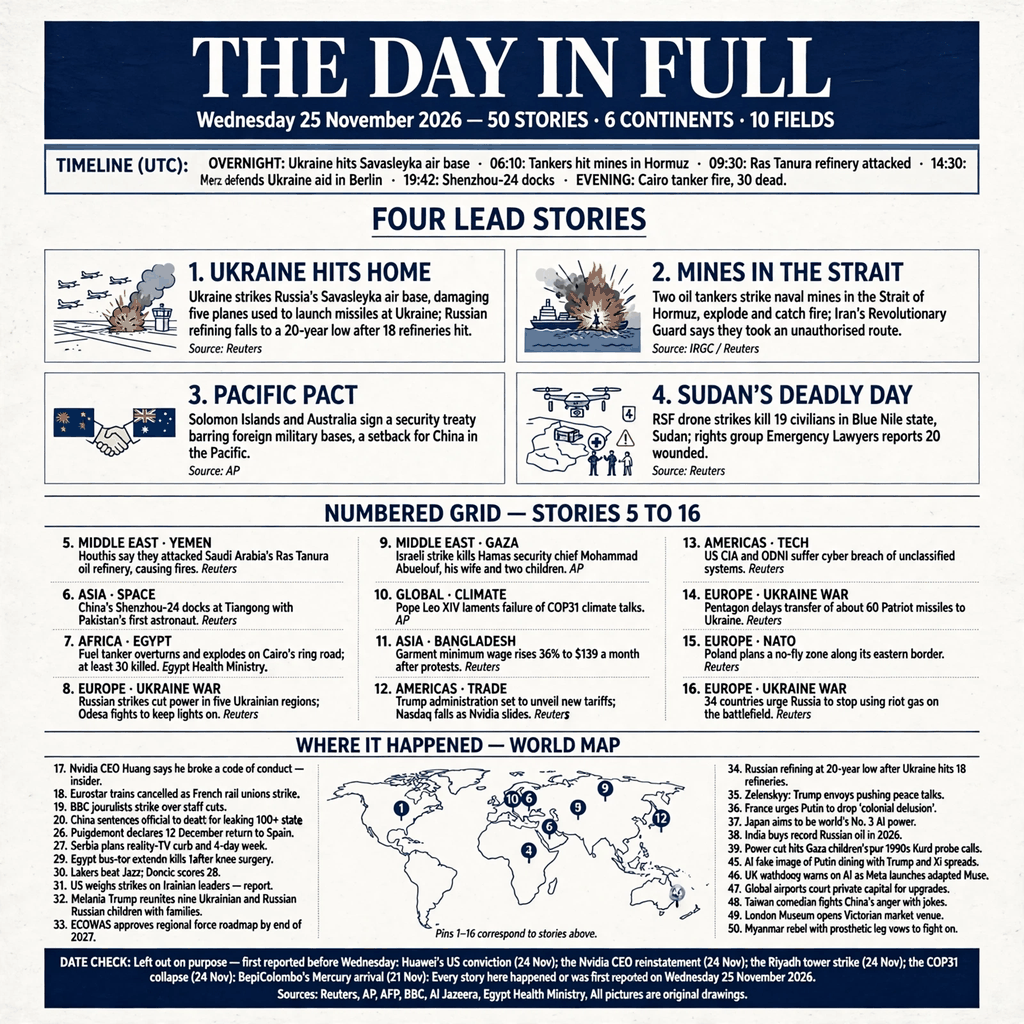
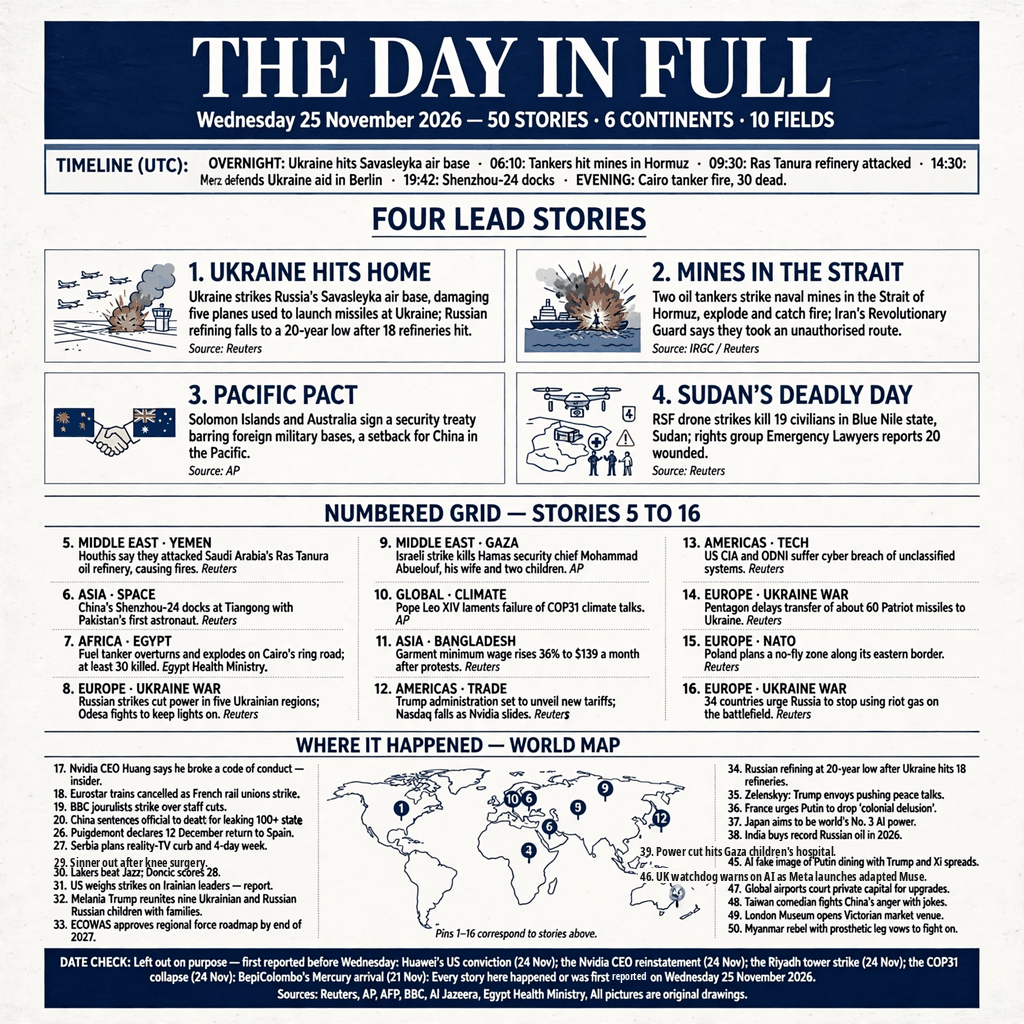
revise: fix ALSO list lines 29/39/46 + footer typo 'repoted'
- footer DATE CHECK: 'repoted' -> 'reported'
- line 29: garbled merge of items 28+29 -> 'Sinner out after knee surgery.'
- line 39: merge of items 39+44 -> 'Power cut hits Gaza children's hospital.'
- line 46: 'wathdoog' -> 'watchdog'
- add stories.md: full 50-story source list (items 21-25, 28, 40-44
  still absent from the rendered list - no room in the columns at
  readable size; documented in README)
- pixel-level patch, map untouched (verified zero changed pixels)

Changed region(s): [[0.625, 0.8125, 0.9688, 0.875], [0.0625, 0.8125, 0.25, 0.8438], [0.5938, 0.9375, 0.625, 0.9688]]

diff --git a/stories.md b/stories.md
@@ -1,0 +1,128 @@
+# Wednesday 25 November 2026 — 50 stories for news-image-20261125
+
+Researched the morning of Thursday 26 November 2026 (WIB, = 01:15 UTC),
+after the day ended everywhere except UTC-12. Rule followed: every story
+happened, or was first reported, on Wednesday 25 November 2026 in some
+time zone. The DATE CHECK on the poster says what was left out and why.
+
+## Lead stories (1–4, with original drawings)
+
+1. **UKRAINE HITS HOME — Ukraine strikes Savasleyka air base, five
+   planes damaged.** Ukrainian forces struck the Savasleyka air base in
+   Russia's Nizhny Novgorod region, damaging five planes used to launch
+   missiles and bombs at Ukraine, the General Staff said. Russian
+   refining fell to a 20-year low after Ukraine hit at least 18
+   refineries. Sources: Reuters.
+2. **MINES IN THE STRAIT — Two tankers hit naval mines in Hormuz.**
+   Iran's Revolutionary Guard Corps said two oil tankers struck naval
+   mines, exploded and caught fire in the Strait of Hormuz after
+   attempting an unauthorised route. Sources: IRGC, Reuters.
+3. **PACIFIC PACT — Solomon Islands and Australia sign security treaty.**
+   The treaty precludes a foreign military or security base on the
+   Solomon Islands. Sources: AP.
+4. **SUDAN'S DEADLY DAY — RSF drone strikes kill 19 civilians.**
+   Drone strikes by the Rapid Support Forces killed 19 civilians and
+   wounded 20 in two Blue Nile cities, rights group Emergency Lawyers
+   said. Sources: Reuters.
+
+## Numbered grid (5–16)
+
+5. **MIDDLE EAST · YEMEN — Houthis hit Ras Tanura refinery.** Yemen's
+   Houthis said they attacked Saudi Arabia's Ras Tanura oil refinery,
+   causing fires. Source: Reuters.
+6. **ASIA · SPACE — Shenzhou-24 docks with Pakistan's first astronaut.**
+   China's Shenzhou-24 docked at Tiangong carrying Muhammad Zeeshan Ali,
+   the first foreign astronaut to visit the station. Source: Reuters.
+7. **AFRICA · EGYPT — Cairo tanker fire kills at least 30.** A fuel
+   tanker overturned and exploded on Cairo's ring road. Source: Egypt
+   Health Ministry.
+8. **EUROPE · UKRAINE WAR — Russia hits Ukraine grid, power out in five
+   regions; Odesa fights to keep lights on.** Source: Reuters.
+9. **MIDDLE EAST · GAZA — Israeli strike kills Hamas security chief
+   Mohammad Abuelouf, his wife and two children.** Source: AP.
+10. **GLOBAL · CLIMATE — Pope Leo XIV laments failure of COP31 talks.**
+    Source: AP.
+11. **ASIA · BANGLADESH — Garment wage rises 36% to $139 a month after
+    protests.** Source: Reuters.
+12. **AMERICAS · TRADE — Trump set to unveil new tariffs; Nasdaq falls
+    as Nvidia slides.** Source: Reuters.
+13. **AMERICAS · TECH — US CIA and ODNI suffer cyber breach of
+    unclassified systems.** Source: Reuters.
+14. **EUROPE · UKRAINE WAR — Pentagon delays about 60 Patriot missiles
+    to Ukraine.** Source: Reuters.
+15. **EUROPE · NATO — Poland plans a no-fly zone along its eastern
+    border.** Source: Reuters.
+16. **EUROPE · UKRAINE WAR — 34 countries urge Russia to stop using
+    riot gas on the battlefield.** Source: Reuters.
+
+## Also on Wednesday 25 November (17–50)
+
+17. Nvidia CEO Huang says he broke a code of conduct — insider.
+18. Eurostar trains cancelled as French rail unions strike.
+19. BBC journalists strike over staff cuts.
+20. China sentences official to death for leaking 100+ state secrets.
+21. Mexico uses US drones to capture 'El Chapo Isidro'.
+22. Ecuador and US weigh joint military operations.
+23. Militants kill at least 30 in Niger state, Nigeria.
+24. 26 miners feared trapped in illegal Indonesia gold mine.
+25. Decathlon cyberattack exposes 130,000+ customers.
+26. Puigdemont declares 12 December return to Spain.
+27. Serbia plans reality-TV curb and 4-day week.
+28. Egypt bus-truck crash kills 10.
+29. Sinner out for extended spell after knee surgery.
+30. Lakers beat Jazz; Doncic scores 28.
+31. US weighs strikes on Iranian leaders — report.
+32. Melania Trump reunites nine Ukrainian and Russian children.
+33. ECOWAS approves regional force roadmap by end of 2027.
+34. Russian refining at 20-year low after Ukraine hits 18 refineries.
+35. Zelenskyy: Trump envoys pushing peace talks.
+36. France urges Putin to drop 'colonial delusion'.
+37. Japan aims to be world's No. 3 AI power.
+38. India buys record Russian oil in 2026.
+39. Power cut hits Gaza children's hospital.
+40. Ex-Srebrenica commander Oric arrested in Bosnia.
+41. UK urged to block UAE's Nusseibeh for top UN job.
+42. South Korea watches North Korean vessel near NLL.
+43. Ukraine unveils Desna missile defence system.
+44. Human remains in Turkish cave spur 1990s Kurd probe calls.
+45. AI fake image of Putin dining with Trump and Xi spreads.
+46. UK watchdog warns on AI as Meta launches adapted Muse.
+47. Global airports court private capital for upgrades.
+48. Taiwan comedian fights China's anger with jokes.
+49. London Museum opens Victorian market venue.
+50. Myanmar rebel with prosthetic leg vows to fight on.
+
+## Date check (poster footer)
+
+Left out on purpose — first reported before Wednesday: Huawei's US
+conviction (24 Nov); the Nvidia CEO reinstatement (24 Nov); the
+Riyadh tower strike (24 Nov); the COP31 collapse (24 Nov);
+BepiColombo's Mercury arrival (21 Nov). The Houthi strike on the
+Riyadh tower was reported 24 Nov; the Ras Tanura refinery attack
+and the Saudi coalition's Hodeidah retaliation are 25 Nov and are
+in. The Sudan strikes happened Tuesday 24 Nov but were first
+reported Wednesday 25 Nov (Reuters), so they count.
+
+## Variants compared
+
+- classic (red masthead): grid item 15 garbled; ALSO list drops
+  items 21–31, duplicates 45, merges 20/32. Rejected.
+- diplomacy (navy masthead): full 5–16 grid, all four leads clean.
+  Known flaws: ALSO list drops 21–25 and 28, item 39 merged,
+  footer typo "repoted". CHOSEN.
+- tabloid (red, short lines): ALSO list 17–50 perfect, but grid
+  loses stories 7 (Gaza) and 8 (Sudan) entirely and garbles item 6.
+  Rejected — two major stories missing outweighs a clean list.
+
+## Revision (26 November 2026)
+
+Poster `entry.png` revised in place (pixel-level patch, Noto Sans
+ExtraCondensed Bold, geometry measured from the PNG itself):
+footer typo "repoted" → "reported"; line 29 corrected to the Sinner
+knee-surgery story (it was a garbled merge of items 28+29); line 39
+unmerged to the Gaza children's hospital story; line 46 "wathdoog" →
+"watchdog". The world map was not touched (verified: zero changed
+pixels in the map strip). Items 21–25, 28 and 40–44 remain absent
+from the rendered list — the two list columns have no room for them
+at a readable size — so the list above is the complete, correct
+record and the source of truth for the poster.

diff --git a/README.md b/README.md
@@ -44,10 +44,16 @@ Three layouts were built and compared pairwise against the judge
 criteria (names the day, breadth, reads, faithful, craft); the
 diplomacy layout is the entry. The classic layout garbled one grid
 item and dropped eleven list items; the tabloid layout lost the
-Gaza and Sudan stories from its grid. The chosen layout keeps the
-full 5–16 grid and all four leads; its known flaws are six missing
-one-line items in the list (21–25, 28), one merged line (39), and
-a typo in the date-check footer ("repoted").
+Gaza and Sudan stories from its grid. The chosen layout keeps the full 5–16 grid and all four leads.
+Revision 26 November 2026 fixed the date-check footer typo
+("repoted" → "reported"), unmerged list line 39 ("Power cut hits
+Gaza children's hospital."), corrected the garbled line 29 to the
+Sinner knee-surgery story, and fixed "wathdoog" → "watchdog" in
+line 46 (pixel-level patch of `entry.png`; the world map was not
+touched). The rendered list still omits items 21–25, 28 and 40–44:
+the two list columns have no room for them at a readable size, so
+the complete 50-story list is kept in `stories.md` as the source
+of truth.
 
 `main.ts` uses only the Node standard library, makes no network
 calls, and writes the same bytes on every run.
@@ -55,7 +61,9 @@ calls, and writes the same bytes on every run.
 ## Contents
 
 - `main.ts` — entry point: copies the bundled PNG out.
-- `entry.png` — the finished 1024×1024 poster (553.006 bytes).
+- `entry.png` — the finished 1024×1024 poster (revised 26 Nov 2026).
+- `stories.md` — the full 50-story source list (leads, grid, ALSO
+  list, date check, variant comparison, revision note).
 - `LICENSE` — MIT.
 
 ---
